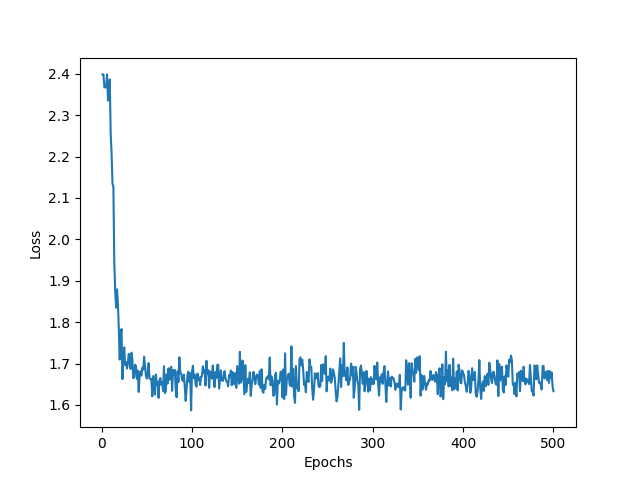
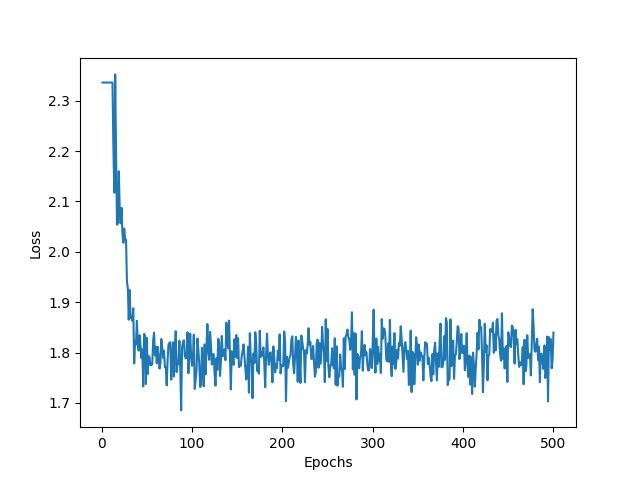
Adjusted neural networks

diff --git a/Detect/model_conv2.py b/Detect/model_conv2.py
@@ -1,0 +1,84 @@
+#more advanced convolution neural network
+#Replace max pooling with strided convolution
+# Shift more learning from internal layers to convolutional layers
+import torch
+from torch import nn
+import torch.nn.functional as F
+
+INTERNAL = 128
+FILTER_1 = 3
+FILTER_2 = 6
+FILTER_3 = 9
+IN_CHANNEL_1 = 1
+KERNEL_SIZE = 3
+class CNN2(nn.Module):
+    # classes = # of classses. size = number of img pixels
+
+    def __init__(self,classes,size):
+        self.size = size
+        super().__init__()
+        #Should have a 6x6 img left over after applying convolutions and pooling
+        #self.input = nn.Linear(2*FILTERS*6*6,INTERNAL)
+        #dimensions of a single filter
+        filter_1 = compute_output_size((28,28),(KERNEL_SIZE,KERNEL_SIZE),stride=2, operation="conv")
+        filter_2 = compute_output_size(filter_1,(KERNEL_SIZE,KERNEL_SIZE), operation="conv")
+        filter_3 = compute_output_size(filter_2,(KERNEL_SIZE,KERNEL_SIZE), operation="conv")
+        print(filter_1)
+        print(filter_2)
+        print(filter_3)
+        #dimension of a single filter times number of filters
+        input_size = filter_3[0] * filter_3[1] * 2 * FILTER_3
+        print(input_size)
+        self.input = nn.Linear(input_size,INTERNAL)
+        self.internal = nn.Linear(INTERNAL,INTERNAL)
+        # in_channels = 1 since grayscale
+        # out_channels = FILTERS (number of different filters to use)
+        self.conv1 = nn.Conv2d(IN_CHANNEL_1,FILTER_1,KERNEL_SIZE)
+        self.conv2 = nn.Conv2d(FILTER_1,FILTER_2,KERNEL_SIZE)
+        self.conv3 = nn.Conv2d(FILTER_2,FILTER_3,KERNEL_SIZE)
+        self.out = nn.Linear(INTERNAL,classes)
+        self.soft = nn.Softmax(dim=1)
+    
+    def forward(self,x):
+        x = F.relu(self.conv1(x))
+        x = F.relu(self.conv2(x))
+        x = F.relu(self.conv3(x))
+        x = torch.flatten(x,1)
+        #input layer
+        x = F.relu(self.input(x))
+        #internal layer
+        x = F.relu(self.internal(x))
+        x = self.soft(self.out(x))
+        return x
+    
+def compute_output_size(input_size, kernel_size, stride=1, padding=0, operation="conv"):
+    """
+    Compute the output size of a matrix after a convolution or max pooling operation.
+
+    Parameters:
+        input_size (tuple): (height, width) of the input matrix.
+        kernel_size (tuple): (kernel_height, kernel_width) of the filter.
+        stride (int): Stride value.
+        padding (int, optional): Padding applied to the input. Default is 0.
+        operation (str): Either "conv" for convolution or "pool" for max pooling.
+
+    Returns:
+        tuple: (output_height, output_width)
+    """
+    H, W = input_size
+    K_h, K_w = kernel_size
+    S = stride
+    P = padding
+
+    if operation == "conv":
+        H_out = ((H - (K_h-1) -1 + 2 * P) // S) + 1
+        W_out = ((W - (K_w-1) -1 + 2 * P) // S) + 1
+    elif operation == "pool":
+        H_out = ((H - (K_h-1)-1) // S) + 1
+        W_out = ((W - (K_w-1)-1) // S) + 1
+    else:
+        raise ValueError("Operation must be 'conv' or 'pool'")
+
+    return H_out, W_out
+
+   

diff --git a/Detect/train.py b/Detect/train.py
@@ -5,13 +5,20 @@ from torch.utils.data import DataLoader
 from torchvision.transforms import v2
 import torchvision as vision
 from skimage import io
-from Detect.data import CustomDataset
-from Detect.data import SmallDataset
-from Detect.model_nn_basic import NN
-from Detect.model_conv import CNN
+from data import CustomDataset
+from data import SmallDataset
+from model_nn_basic import NN
+from model_conv import CNN
+from model_conv2 import CNN2
 from matplotlib.pylab import plt
 import time
 import numpy as np
+import sys
+import os
+sys.path.append(os.path.dirname(os.path.dirname(os.path.abspath(__file__))))
+from constants import * # Assuming module_a is in the root
+
+
 criterion = nn.CrossEntropyLoss()
 LR = 0.001
 BATCH = 64
@@ -20,7 +27,6 @@ PATH = 'dataset2'
 SIZE = 32
 class_num = 0
 device = torch.device("cuda" if torch.cuda.is_available() else "cpu")
-from constants import *
 MNIST_MEAN = 0.1307
 MNIST_STD = 0.3081
 
@@ -52,7 +58,8 @@ def full_train(data, model,class_num):
     normalize(train)
     test = DataLoader(test_data, num_workers=8, pin_memory=True, persistent_workers=True)    
     optimizer = optim.Adam(model.parameters(),lr=LR)
-    scheduler = optim.lr_scheduler.ExponentialLR(optimizer, gamma=0.9)
+    #scheduler = optim.lr_scheduler.ExponentialLR(optimizer, gamma=0.9)
+    scheduler = optim.lr_scheduler.ReduceLROnPlateau(optimizer, mode='min', factor=0.9, patience=10, verbose=True)
     # train
     loss_over_time = np.zeros((EPOCH,1))
     for epoch in range(EPOCH):
@@ -70,7 +77,7 @@ def full_train(data, model,class_num):
         loss_over_time[epoch,0] = loss
         if epoch % 50 == 1:
             print(loss)
-        scheduler.step()
+        scheduler.step(loss)
     
     # test
     correct = 0 
@@ -145,7 +152,7 @@ def main():
     
     global class_num
     class_num = len(dataset.classes)
-    net = CNN(class_num,SIZE*SIZE)
+    net = CNN2(class_num,SIZE*SIZE)
     loss = full_train(dataset,net,class_num)
     plot_loss(loss)
 

diff --git a/Detect/detection.py b/Detect/detection.py
@@ -1,8 +1,8 @@
 # Handles the neural network aspect of the project
 from enum import Enum
-from Detect.model_nn_basic import NN
-from Detect.model_conv import CNN
-from Detect.train import full_train, create_dataset
+from model_nn_basic import NN
+from model_conv import CNN
+from train import full_train, create_dataset
 import torch
 
 device = torch.device("cuda" if torch.cuda.is_available() else "cpu")

diff --git a/Line/line_hist.py b/Line/line_hist.py
@@ -34,7 +34,6 @@ def segment_lines(bin):
     divider_indices = divider_indices[:,0]
     print("hello")
 
-
 def detect(Image):
     IM = Image
     bin = binarize(IM)>THRESHOLD
